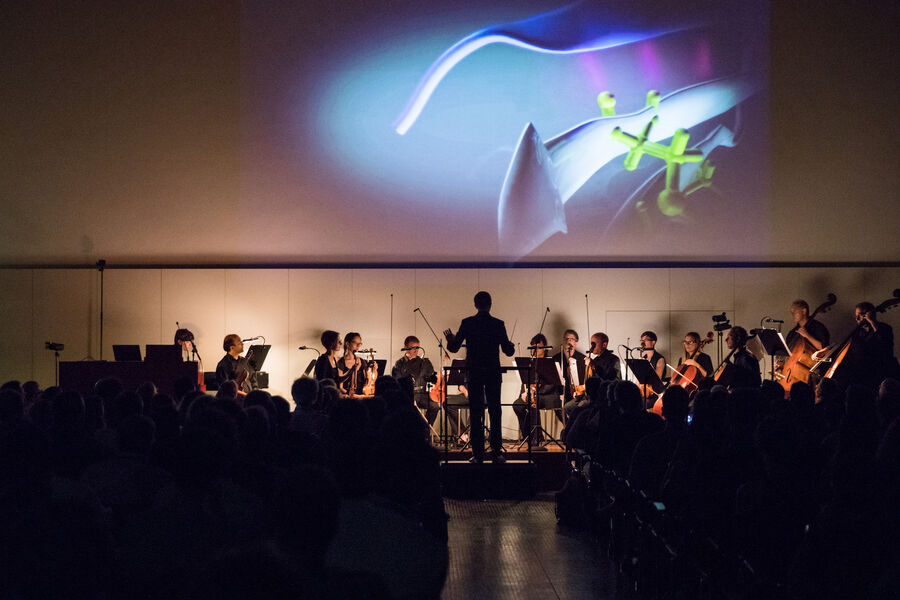
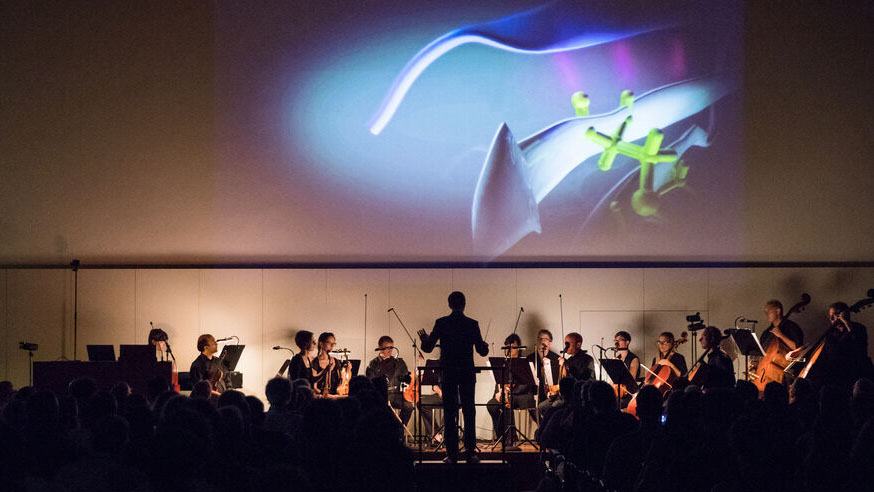
Change order of portfolio items, reduce file size of images, convert all images to jpg, create dark mode version of systemsx graphic

diff --git a/index.html b/index.html
@@ -96,42 +96,6 @@
 
         <div class="row">
             <div class="twelve columns">  
-                <h5>Computer simulations to reveal the mechanism of protein allostery </h5>
-            </div>
-        </div>
-        <div class="row portfolio-item">
-            <div class="eight columns">
-                <img src="./images/allostery.png">
-            </div>
-            <div class="four columns">
-                <ul>
-                    <li>Overview figure explaining how computer simulations can assist in <a href="https://journals.plos.org/ploscompbiol/article/authors?id=10.1371/journal.pcbi.1004746" target="blank"> revealing the molecular basis of allosteric regulation in proteins.</a></li>
-                    <li>Created for Stanford University (2016)</li>
-                    <li>Software: Adobe Illustrator</li>
-                </ul>
-            </div>
-        </div>
-
-        <div class="row">
-            <div class="twelve columns">  
-                <h5>Cozy hydroxycholesterol</h5>
-            </div>
-        </div>
-        <div class="row portfolio-item">
-            <div class="eight columns">
-                <img src="./images/hydroxycholesterol.png">
-            </div>
-            <div class="four columns">
-                <ul>
-                    <li>Visualization of a hydroxycholesterol molecule bound to an oxysterol-binding-protein, which is implicated in signal transduction pathways in both yeast and humans.</li>
-                    <li>Client: California Institute of Technology (2019)</li>
-                    <li>Software: Autodesk Maya and <a href="https://www.cgl.ucsf.edu/chimera/" target="blank">UCSF Chimera</a></li>
-                </ul>
-            </div>
-        </div>
-
-        <div class="row">
-            <div class="twelve columns">  
                 <h5>Interactive visualization of research areas</h5>
             </div>
         </div>
@@ -151,6 +115,24 @@
                     </li>
                     <li>Client: ETH Zurich (2017 / 2021)</li>
                     <li>Software: <a href="https://d3js.org/" target="blank">D3.js</a></li>
+                </ul>
+            </div>
+        </div>
+
+        <div class="row">
+            <div class="twelve columns">  
+                <h5>Tracing Water</h5> 
+            </div>
+        </div>
+        <div class="row portfolio-item">
+            <div class="eight columns">
+                <img src="./images/tracingwater.jpg">
+            </div>
+            <div class="four columns">
+                <ul>
+                    <li>Illustration on key processes in the hydrological cycle</li>
+                    <li>Client: <a href="https://www.imk-tro.kit.edu/english/14_1794.php" target="blank">Prof. Corinna Hoose</a>, Karlsruhe Institute of Technology (2017)</li>
+                    <li>Software: Adobe Illustrator and <a href="https://www.blender.org/" target="blank">Blender</a></li>
                 </ul>
             </div>
         </div>
@@ -177,49 +159,14 @@
 
         <div class="row">
             <div class="twelve columns">  
-                <h5>How to cut DNA?</h5>
-            </div>
-        </div>
-        <div class="row portfolio-item">
-            <div class="eight columns">
-                <img src="./images/crispr.png">
-            </div>
-            <div class="four columns">
-                <ul>
-                    <li><a href="./crispr/index.html" target="blank">Interactive visualization</a> illustrating the structural mechanism of CRISPR gene editing (web experiment, 2017)</li>
-                    <li>Software: <a href="https://threejs.org/" target="blank">three.js</a> and <a href="https://www.cgl.ucsf.edu/chimera/" target="blank">UCSF Chimera</a></li>
-                </ul>
-            </div>
-        </div>
-
-        <div class="row">
-            <div class="twelve columns">  
-                <h5>Tracing Water</h5> 
-            </div>
-        </div>
-        <div class="row portfolio-item">
-            <div class="eight columns">
-                <img src="./images/tracingwater.png">
-            </div>
-            <div class="four columns">
-                <ul>
-                    <li>Illustration on key processes in the hydrological cycle</li>
-                    <li>Client: <a href="https://www.imk-tro.kit.edu/english/14_1794.php" target="blank">Prof. Corinna Hoose</a>, Karlsruhe Institute of Technology (2017)</li>
-                    <li>Software: Adobe Illustrator and <a href="https://www.blender.org/" target="blank">Blender</a></li>
-                </ul>
-            </div>
-        </div>
-
-        <div class="row">
-            <div class="twelve columns">  
                 <h5>Collaborative network in Swiss Systems Biology</h5> 
             </div>
         </div>
         <div class="row portfolio-item">
-            <div class="four columns">
-                <img src="./images/systemsx.png">
-            </div>
             <div class="eight columns">
+                <img src="./images/systemsx.jpg">
+            </div>
+            <div class="four columns">
                 <ul>
                     <li>Graphic showing newly developed interdisciplinary collaborations between Swiss research groups resulting from large-scale SystemsX.ch projects.</li>
                     <li><a href="./docs/graphic_systemsx.pdf" target="blank">PDF file with full-resolution</a></li>
@@ -236,7 +183,7 @@
         </div>
         <div class="row portfolio-item">
             <div class="four columns">
-                <img src="./images/poster_sonoeyes.png">
+                <img src="./images/poster_sonoeyes.jpg">
             </div>
             <div class="eight columns">
                 <ul>
@@ -244,25 +191,6 @@
                     <li><a href="./docs/poster_sonoeyes.pdf" target="blank">PDF file with full-resolution</a></li>
                     <li>Created for <a href="http://incremed.com/" target="blank">Incremed AG</a> (2019)</li>
                     <li>Software: Adobe Illustrator</li>
-                </ul>
-            </div>
-        </div>
-
-        <div class="row">
-            <div class="twelve columns">  
-                <h5>Structural Biology of HIV</h5> 
-            </div>
-        </div>
-        <div class="row portfolio-item">
-            <div class="four columns">
-                <img src="./images/poster_mda.png">
-            </div>
-            <div class="eight columns">
-                <ul>
-                    <li>Scientific poster on the molecular structure of the immature HI virion. Presented at the conference series <a href="https://vizbi.org/" target="blank">Visualizing Biological Data (VIZBI)</a> 2015. Earned the <a href="https://vizbi.org/blog/2015/05/28/winner-of-nvidia-best-scientific-poster-award/" target="blank">best poster award.</a></li>
-                    <li><a href="./docs/poster_mda.pdf" target="blank">PDF file with full-resolution</a></li>
-                    <li>Created for <a href="https://www.ucsf.edu/" target="blank">University of California, San Francisco</a> (2015)</li>
-                    <li>Software: Adobe Illustrator and <a href="https://www.cgl.ucsf.edu/chimera/" target="blank">UCSF Chimera</a></li>
                 </ul>
             </div>
         </div>
@@ -284,7 +212,61 @@
                     <li>Software: Adobe AfterEffects</li>
                 </ul>
             </div>
-        </div>              
+        </div>  
+
+        <div class="row">
+            <div class="twelve columns">  
+                <h5>Cozy hydroxycholesterol</h5>
+            </div>
+        </div>
+        <div class="row portfolio-item">
+            <div class="eight columns">
+                <img src="./images/hydroxycholesterol.jpg">
+            </div>
+            <div class="four columns">
+                <ul>
+                    <li>Visualization of a hydroxycholesterol molecule bound to an oxysterol-binding-protein, which is implicated in signal transduction pathways in both yeast and humans.</li>
+                    <li>Client: California Institute of Technology (2019)</li>
+                    <li>Software: Autodesk Maya and <a href="https://www.cgl.ucsf.edu/chimera/" target="blank">UCSF Chimera</a></li>
+                </ul>
+            </div>
+        </div>
+
+        <div class="row">
+            <div class="twelve columns">  
+                <h5>Structural Biology of HIV</h5> 
+            </div>
+        </div>
+        <div class="row portfolio-item">
+            <div class="four columns">
+                <img src="./images/poster_mda.jpg">
+            </div>
+            <div class="eight columns">
+                <ul>
+                    <li>Scientific poster on the molecular structure of the immature HI virion. Presented at the conference series <a href="https://vizbi.org/" target="blank">Visualizing Biological Data (VIZBI)</a> 2015. Earned the <a href="https://vizbi.org/blog/2015/05/28/winner-of-nvidia-best-scientific-poster-award/" target="blank">best poster award.</a></li>
+                    <li><a href="./docs/poster_mda.pdf" target="blank">PDF file with full-resolution</a></li>
+                    <li>Created for <a href="https://www.ucsf.edu/" target="blank">University of California, San Francisco</a> (2015)</li>
+                    <li>Software: Adobe Illustrator and <a href="https://www.cgl.ucsf.edu/chimera/" target="blank">UCSF Chimera</a></li>
+                </ul>
+            </div>
+        </div>
+
+        <div class="row">
+            <div class="twelve columns">  
+                <h5>How to cut DNA?</h5>
+            </div>
+        </div>
+        <div class="row portfolio-item">
+            <div class="eight columns">
+                <img src="./images/crispr.png">
+            </div>
+            <div class="four columns">
+                <ul>
+                    <li><a href="./crispr/index.html" target="blank">Interactive visualization</a> illustrating the structural mechanism of CRISPR gene editing (web experiment, 2017)</li>
+                    <li>Software: <a href="https://threejs.org/" target="blank">three.js</a> and <a href="https://www.cgl.ucsf.edu/chimera/" target="blank">UCSF Chimera</a></li>
+                </ul>
+            </div>
+        </div>
 
         <div class="row">
             <div class="twelve columns">  
@@ -327,6 +309,24 @@
                 </ul>
             </div>
         </div>
+
+        <div class="row">
+            <div class="twelve columns">  
+                <h5>Computer simulations to reveal the mechanism of protein allostery </h5>
+            </div>
+        </div>
+        <div class="row portfolio-item">
+            <div class="eight columns">
+                <img src="./images/allostery.jpg">
+            </div>
+            <div class="four columns">
+                <ul>
+                    <li>Overview figure explaining how computer simulations can assist in <a href="https://journals.plos.org/ploscompbiol/article/authors?id=10.1371/journal.pcbi.1004746" target="blank"> revealing the molecular basis of allosteric regulation in proteins.</a></li>
+                    <li>Created for Stanford University (2016)</li>
+                    <li>Software: Adobe Illustrator</li>
+                </ul>
+            </div>
+        </div>        
 
         <div class="row">
             <div class="twelve columns">
